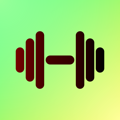
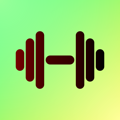
reverted size change

diff --git a/logo.html b/logo.html
@@ -78,7 +78,7 @@
 
     <div id="logo" class="gradient-box rounded-box">
         <div class="dumbbell">
-            <div class="dumbbell-element dumbbell-element-vertical" style="height: 35%; background: linear-gradient(to left, #600, #700);"></div>
+            <div class="dumbbell-element dumbbell-element-vertical" style="height: 30%; background: linear-gradient(to left, #600, #700);"></div>
             <div class="dumbbell-element dumbbell-element-vertical" style="height: 60%; background: linear-gradient(to left, #500, #600);"></div>
             <div class="dumbbell-element dumbbell-element-vertical" style="height: 80%; background: linear-gradient(to left, #400, #500);"></div>
 
@@ -86,7 +86,7 @@
 
             <div class="dumbbell-element dumbbell-element-vertical" style="height: 80%; background: linear-gradient(to left, #200, #300);"></div>
             <div class="dumbbell-element dumbbell-element-vertical" style="height: 60%; background: linear-gradient(to left, #100, #200);"></div>
-            <div class="dumbbell-element dumbbell-element-vertical" style="height: 35%; background: linear-gradient(to left, #000, #100);"></div>
+            <div class="dumbbell-element dumbbell-element-vertical" style="height: 30%; background: linear-gradient(to left, #000, #100);"></div>
         </div>
     </div>
 
